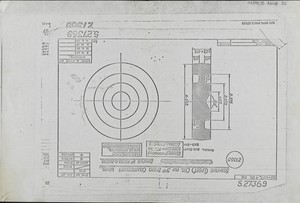
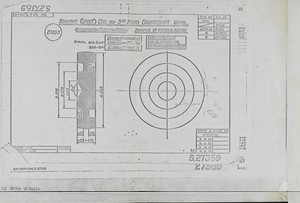
cleared up for publishing
removed london - brighton run cards
removed bellmount intake (not ours)
updated facebook page tab to open in new tab
removed google form from events page
rotated 27369_Stamping(upset)DRGFor£rdSpeedCountershaftWheel

Changed region(s): [[0.0, 0.0, 1.0, 1.0]]

diff --git a/_includes/header.html b/_includes/header.html
@@ -12,7 +12,7 @@
         <li><a href="/media/"><i class="fa fa-photo"></i>Media</a></li>
         {% for p in site.data.header-pages %}
         {% if p.show %}
-        <li><a href="{{ p.page }}"><i class="fa {{ p.icon }}"></i>{{ p.name }}</a></li>
+        <li><a href="{{ p.page }}" {% if p.target %}target="{{ p.target }}"{% endif %}><i class="fa {{ p.icon }}"></i>{{ p.name }}</a></li>
         {% endif %}
         {% endfor %}
       </ul>

diff --git a/events/index.md b/events/index.md
@@ -7,7 +7,7 @@ title: Events
 
 # Events
 
-Toastrack is ideal transport for society balls, parties, weddings and school proms. Please [contact us][contact-us] if you would like more information about using the bus for your event. Alternatively you can book using our [Google Form][google-form].
+Toastrack is ideal transport for society balls, parties, weddings and school proms. Please [contact us][contact-us] if you would like more information about using the bus for your event.
 
 There are frequent trips out to the country and seaside as well as to old vehicle rallies and museums of engineering/transport related interest, so why not come along and enjoy the ride?
 
